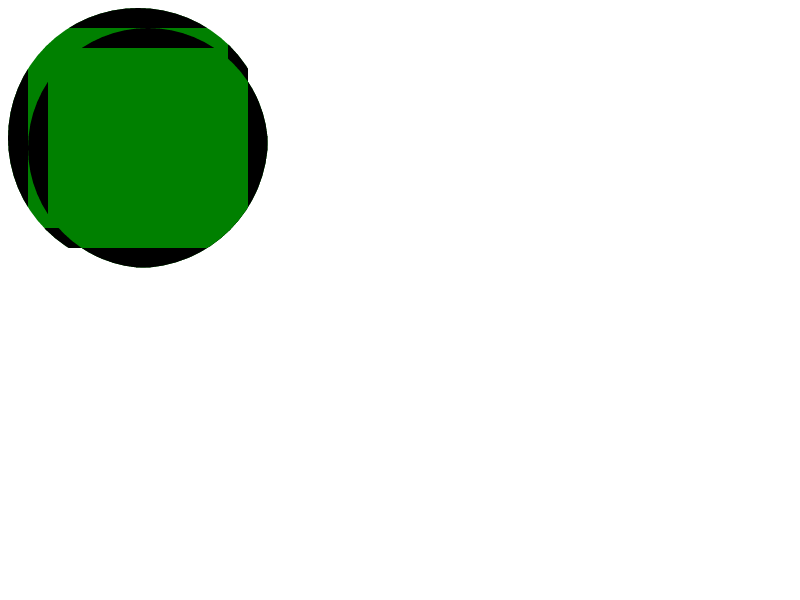
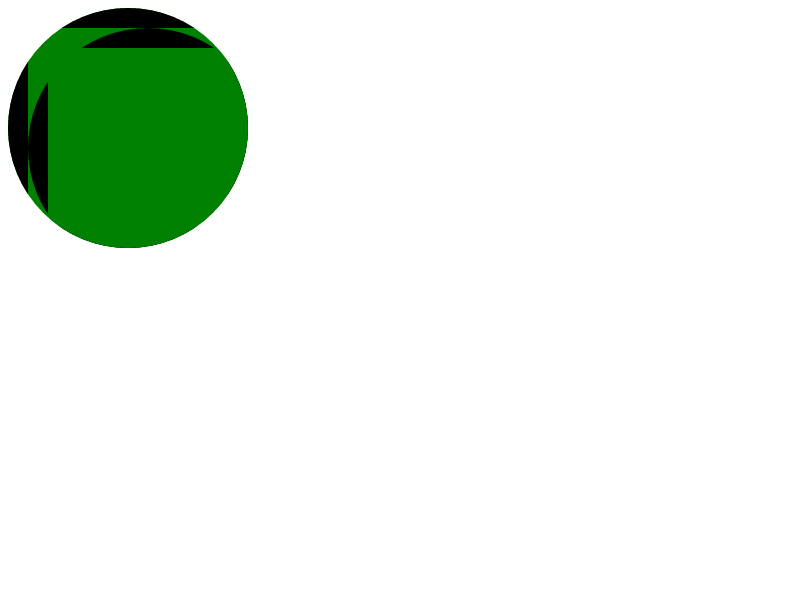
Use border-box as the reference box for (-webkit-)clip-path
The 'clip-path' property should use the border box as the reference box
(per default; <geometry-box> not yet supported) [1].
The new behavior matches WebKit and Gecko (except for inline boxes,
see below.)

For inline boxes that span multiple lines we use the union of all the
lines. The test css3/masking/clip-path-reference-box-inline.html added
to track this behavior.

[1] https://drafts.fxtf.org/css-masking-1/#the-clip-path

BUG=418484
CQ_INCLUDE_TRYBOTS=master.tryserver.chromium.linux:linux_layout_tests_slimming_paint_v2

Review-Url: https://codereview.chromium.org/2273733002
Cr-Original-Commit-Position: refs/heads/master@{#414118}
Cr-Mirrored-From: https://chromium.googlesource.com/chromium/src
Cr-Mirrored-Commit: 70b5b81d191f2cf8057f5609ed1e53ee392f7ea1

diff --git a/WebKit/LayoutTests/css3/masking/clip-path-reference-box-3.html b/WebKit/LayoutTests/css3/masking/clip-path-reference-box-3.html
@@ -1,0 +1,20 @@
+<!DOCTYPE html>
+<style>
+.clipped {
+  width: 100px;
+  height: 200px;
+  background-color: green;
+  -webkit-clip-path: polygon(0% 0%,100% 0%,100% 50%,0% 50%);
+  clip-path: polygon(0% 0%,100% 0%,100% 50%,0% 50%);
+}
+.abs {
+  position: absolute;
+  width: 200px;
+  height: 200px;
+}
+</style>
+<div class="abs">
+  <div class="clipped" style="position: absolute; overflow: hidden">
+    <div class="abs" style="transform: translate(0px, 100px); background-color: red;"></div>
+  </div>
+</div>

diff --git a/WebKit/LayoutTests/css3/masking/clip-path-reference-box-inline.html b/WebKit/LayoutTests/css3/masking/clip-path-reference-box-inline.html
@@ -1,0 +1,19 @@
+<!DOCTYPE html>
+<style>
+div {
+  width: 100px;
+  height: 100px;
+  overflow: hidden;
+  background-color: red;
+  line-height: 1;
+}
+span {
+  background-color: green;
+  color: green;
+  -webkit-clip-path: polygon(0% 0%, 100% 0%, 100% 100%, 0% 100%);
+  clip-path: polygon(0% 0%, 100% 0%, 100% 100%, 0% 100%);
+}
+</style>
+<div>
+<span>XXXXXXXXXX XXXXXXXXXX XXXXXXXXXX XXXXXXXXXX XXXXXXXXXX XXXXXXXXXX XXXXXXXXXX</span>
+</div>

diff --git a/WebKit/LayoutTests/css3/masking/clip-path-reference-box-2.html b/WebKit/LayoutTests/css3/masking/clip-path-reference-box-2.html
@@ -1,0 +1,13 @@
+<!DOCTYPE html>
+<style>
+.clipped {
+  width: 100px;
+  height: 200px;
+  background-color: green;
+  -webkit-clip-path: polygon(0% 0%,100% 0%,100% 50%,0% 50%);
+  clip-path: polygon(0% 0%,100% 0%,100% 50%,0% 50%);
+}
+</style>
+<div class="clipped">
+  <div style="float:left; margin-left:-100px; margin-top:-100px;">&nbsp;</div>
+</div>

diff --git a/WebKit/LayoutTests/css3/masking/clip-path-reference-box-1.html b/WebKit/LayoutTests/css3/masking/clip-path-reference-box-1.html
@@ -1,0 +1,12 @@
+<!DOCTYPE html>
+<style>
+.clipped {
+  width: 100px;
+  height: 200px;
+  background-color: green;
+  -webkit-clip-path: polygon(0% 0%,100% 0%,100% 50%,0% 50%);
+  clip-path: polygon(0% 0%,100% 0%,100% 50%,0% 50%);
+  box-shadow: 100px 0px red;
+}
+</style>
+<div class="clipped"></div>

diff --git a/WebKit/LayoutTests/css3/masking/clip-path-reference-box-1-expected.html b/WebKit/LayoutTests/css3/masking/clip-path-reference-box-1-expected.html
@@ -1,0 +1,2 @@
+<!DOCTYPE html>
+<div style="width: 100px; height: 100px; background-color: green"></div>

diff --git a/WebKit/LayoutTests/css3/masking/clip-path-reference-box-2-expected.html b/WebKit/LayoutTests/css3/masking/clip-path-reference-box-2-expected.html
@@ -1,0 +1,2 @@
+<!DOCTYPE html>
+<div style="width: 100px; height: 100px; background-color: green"></div>

diff --git a/WebKit/LayoutTests/css3/masking/clip-path-reference-box-3-expected.html b/WebKit/LayoutTests/css3/masking/clip-path-reference-box-3-expected.html
@@ -1,0 +1,2 @@
+<!DOCTYPE html>
+<div style="width: 100px; height: 100px; background-color: green"></div>

diff --git a/WebKit/LayoutTests/css3/masking/clip-path-reference-box-inline-expected.html b/WebKit/LayoutTests/css3/masking/clip-path-reference-box-inline-expected.html
@@ -1,0 +1,2 @@
+<!DOCTYPE html>
+<div style="width: 100px; height: 100px; background-color: green"></div>

diff --git a/WebKit/Source/core/paint/PaintLayerPainter.cpp b/WebKit/Source/core/paint/PaintLayerPainter.cpp
@@ -5,6 +5,7 @@
 #include "core/paint/PaintLayerPainter.h"
 
 #include "core/frame/LocalFrame.h"
+#include "core/layout/LayoutInline.h"
 #include "core/layout/LayoutView.h"
 #include "core/paint/ClipPathClipper.h"
 #include "core/paint/FilterPainter.h"
@@ -180,6 +181,14 @@ static bool shouldRepaintSubsequence(PaintLayer& paintLayer, const PaintLayerPai
     return needsRepaint;
 }
 
+static LayoutRect computeReferenceBox(const LayoutBoxModelObject& boxModelObject)
+{
+    if (boxModelObject.isLayoutInline())
+        return toLayoutInline(boxModelObject).linesBoundingBox();
+    SECURITY_DCHECK(boxModelObject.isBox());
+    return toLayoutBox(boxModelObject).borderBoxRect();
+}
+
 PaintLayerPainter::PaintResult PaintLayerPainter::paintLayerContents(GraphicsContext& context, const PaintLayerPaintingInfo& paintingInfoArg, PaintLayerFlags paintFlags, FragmentPolicy fragmentPolicy)
 {
     ASSERT(m_paintLayer.isSelfPaintingLayer() || m_paintLayer.hasSelfPaintingLayerDescendant());
@@ -253,9 +262,10 @@ PaintLayerPainter::PaintResult PaintLayerPainter::paintLayerContents(GraphicsCon
             rootRelativeBoundsComputed = true;
         }
         paintingInfo.ancestorHasClipPathClipping = true;
-        FloatRect floatRootRelativeBounds(rootRelativeBounds);
+        LayoutRect referenceBox(computeReferenceBox(*m_paintLayer.layoutObject()));
+        referenceBox.moveBy(offsetFromRoot);
         clipPathClipper.emplace(
-            context, *m_paintLayer.layoutObject(), floatRootRelativeBounds, floatRootRelativeBounds, FloatPoint(offsetFromRoot));
+            context, *m_paintLayer.layoutObject(), FloatRect(referenceBox), FloatRect(rootRelativeBounds), FloatPoint(offsetFromRoot));
     }
 
     Optional<CompositingRecorder> compositingRecorder;
